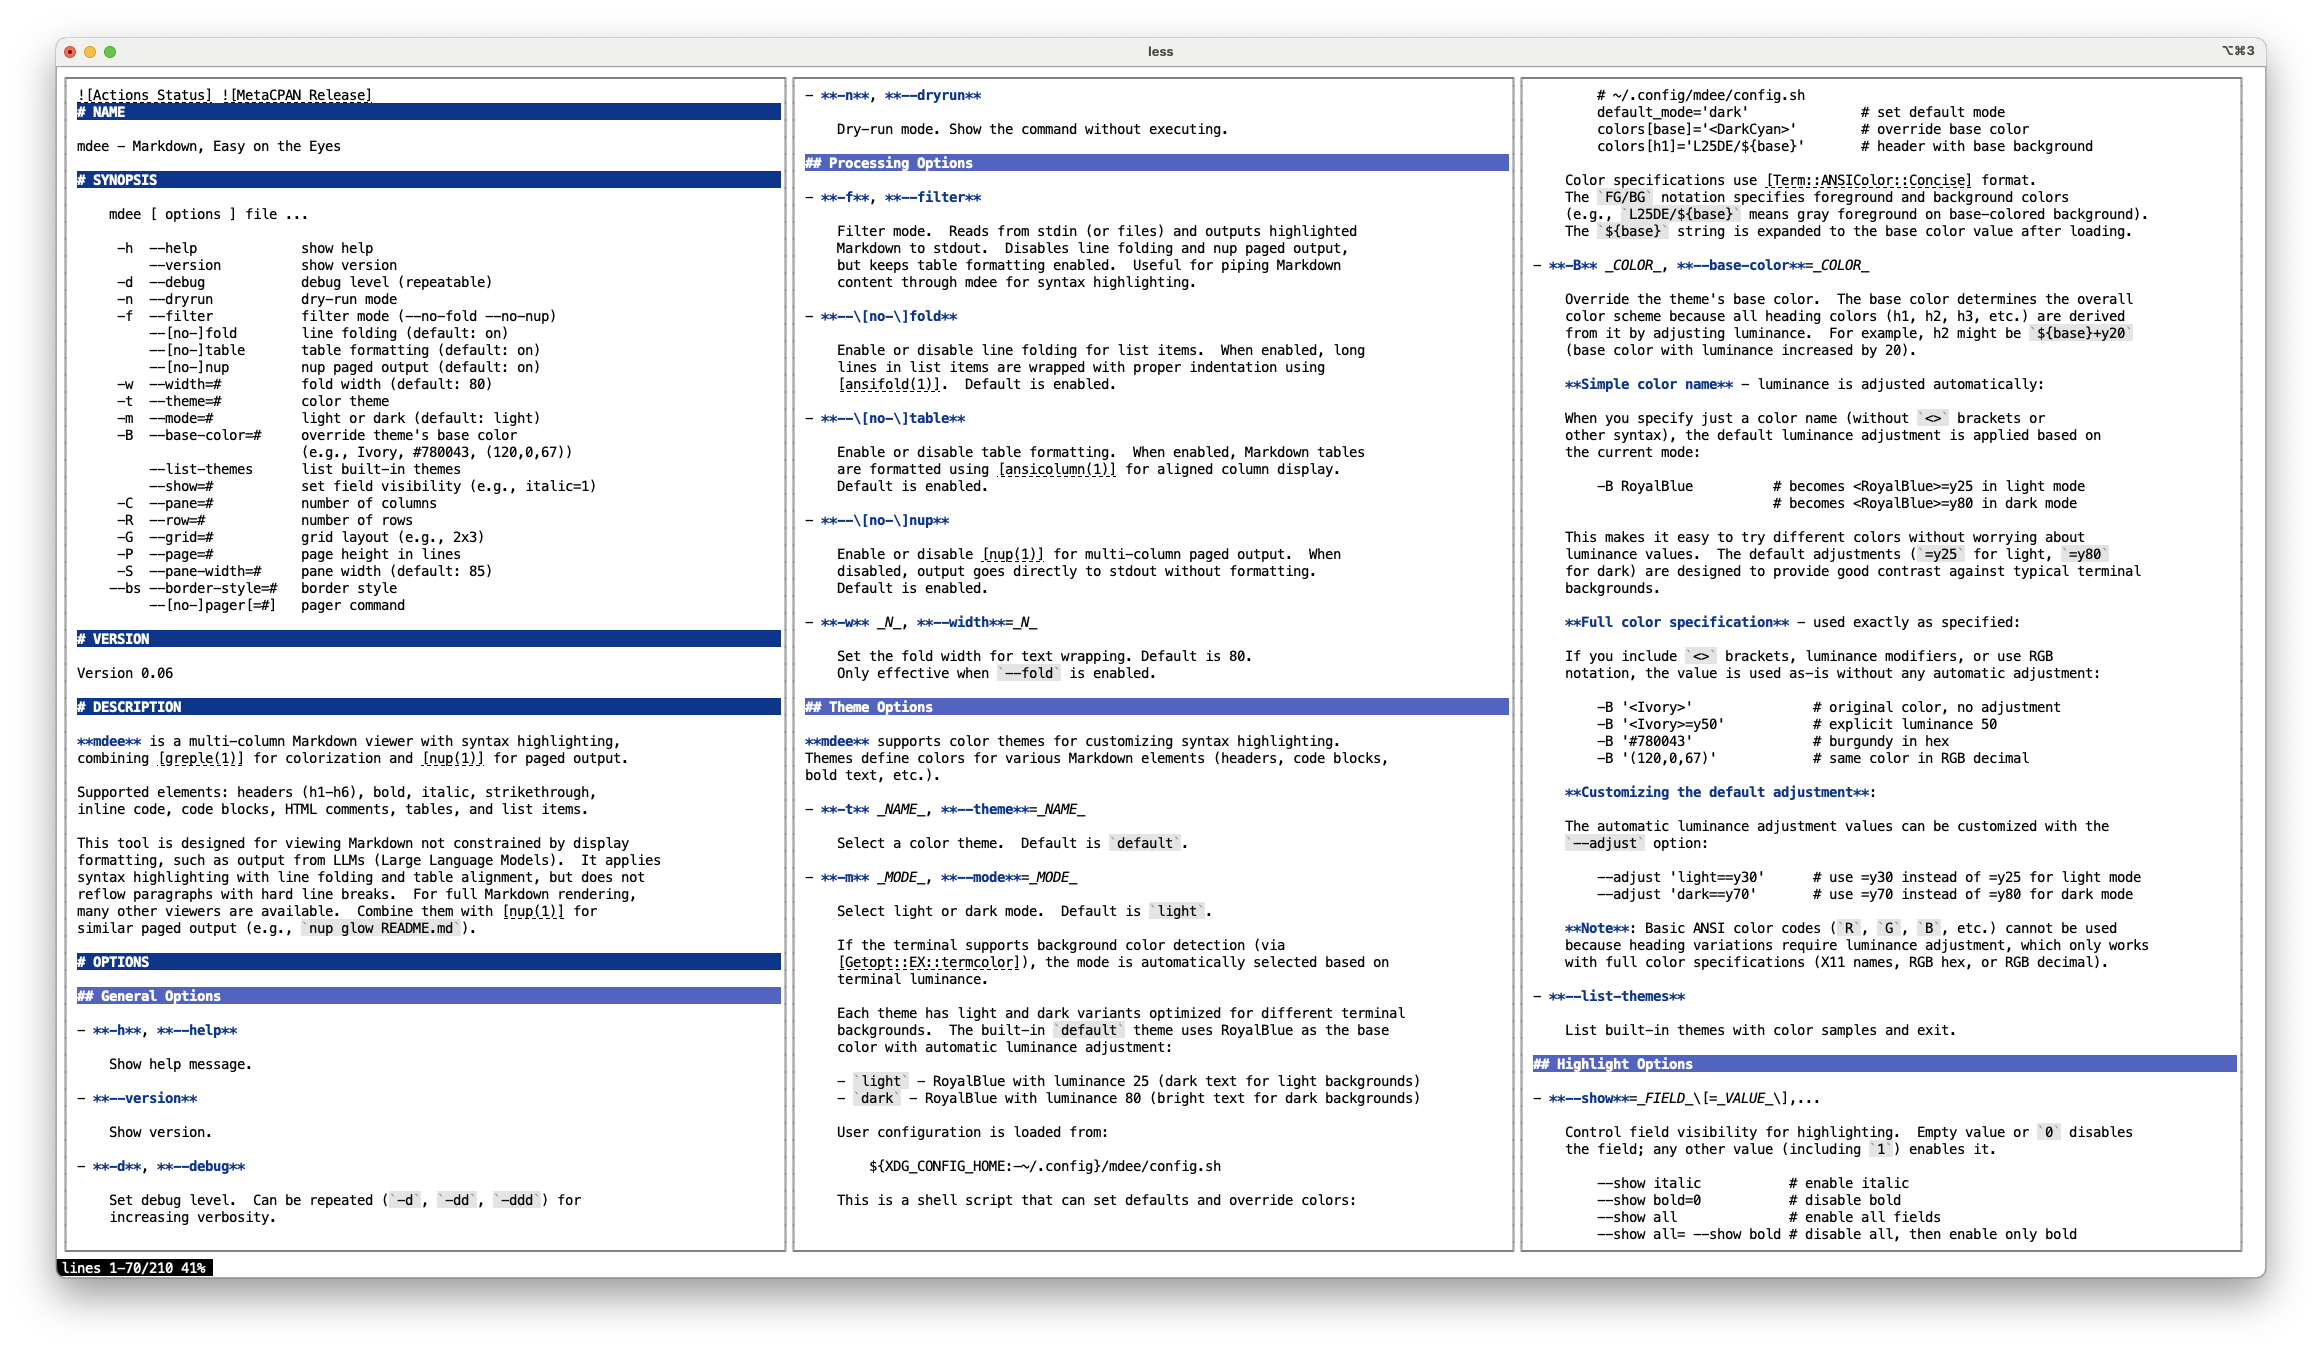
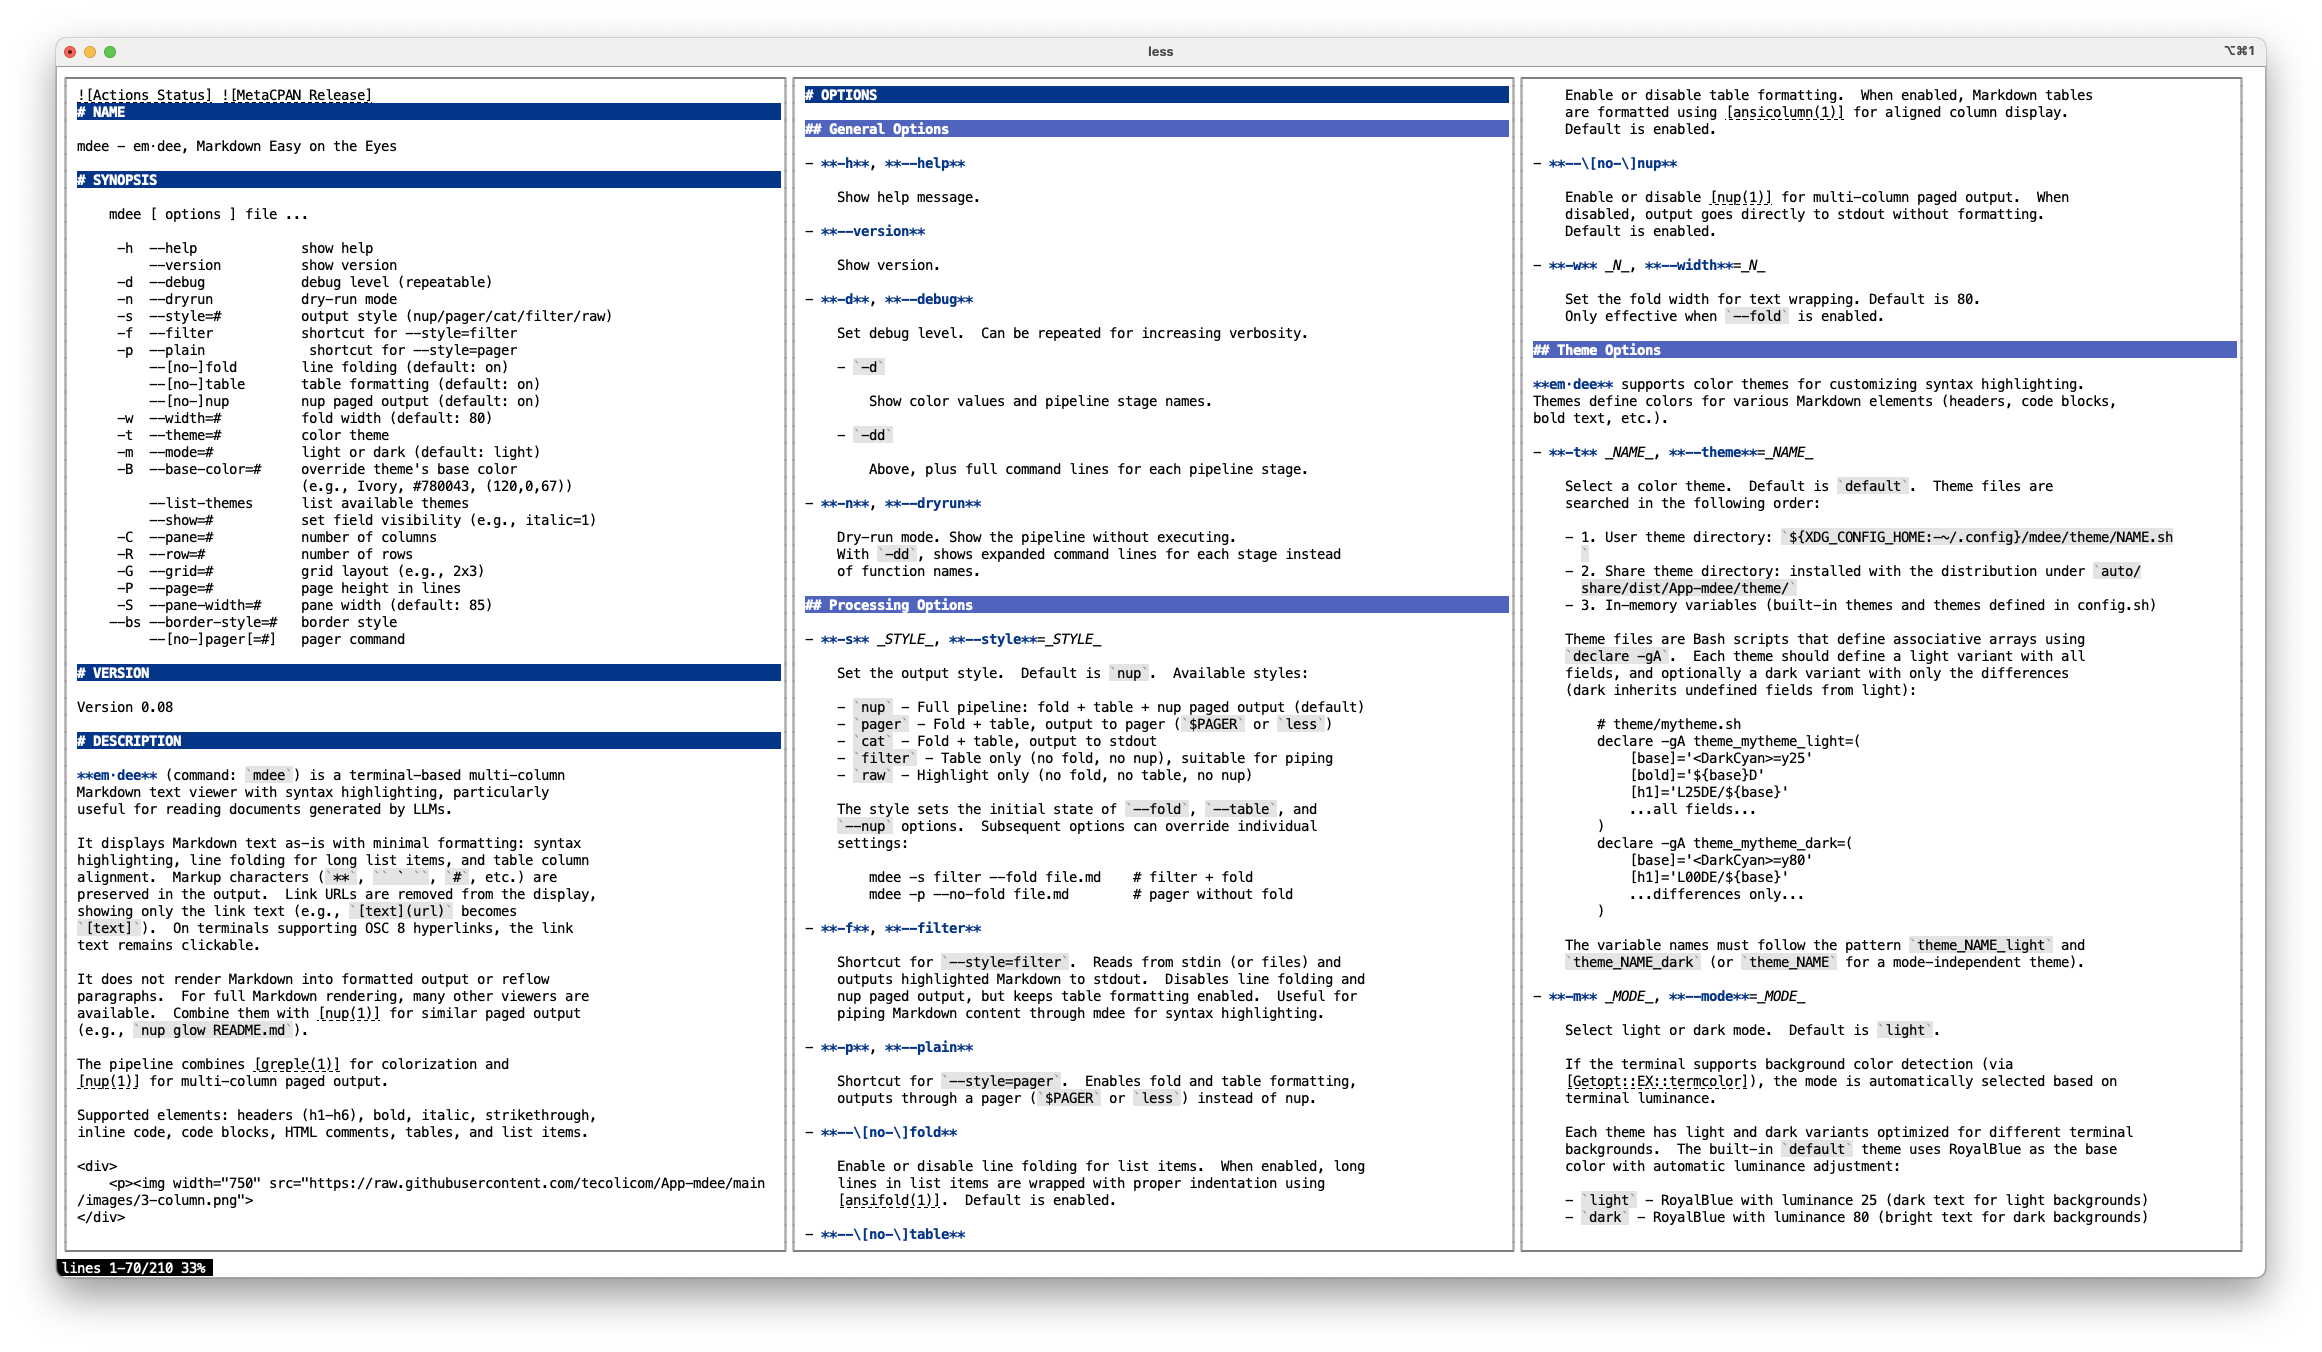
Update dependencies and add new screenshot
- Require Text::ANSI::Fold 2.3303, App::ansifold 1.35, App::ansicolumn 1.51
- Add 3-column.png screenshot

Changed region(s): [[0.031, 0.0621, 0.6512, 0.932], [0.6512, 0.0621, 0.9612, 0.932], [0.062, 0.0932, 0.155, 0.1243]]

diff --git a/README.md b/README.md
@@ -62,7 +62,7 @@ Supported elements: headers (h1-h6), bold, italic, strikethrough,
 inline code, code blocks, HTML comments, tables, and list items.
 
 <div>
-    <p><img width="750" src="https://raw.githubusercontent.com/tecolicom/App-mdee/main/images/manual.png">
+    <p><img width="750" src="https://raw.githubusercontent.com/tecolicom/App-mdee/main/images/3-column.png">
 </div>
 
 # OPTIONS
